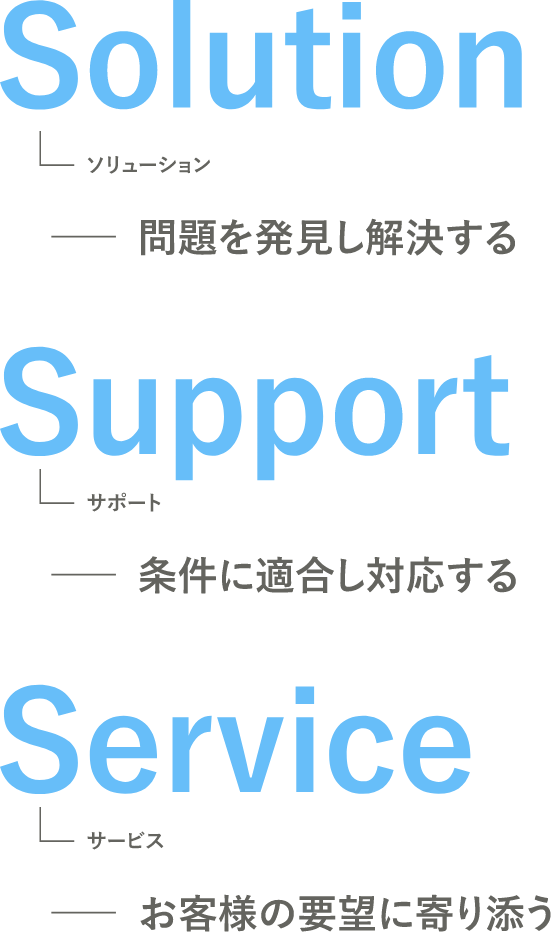
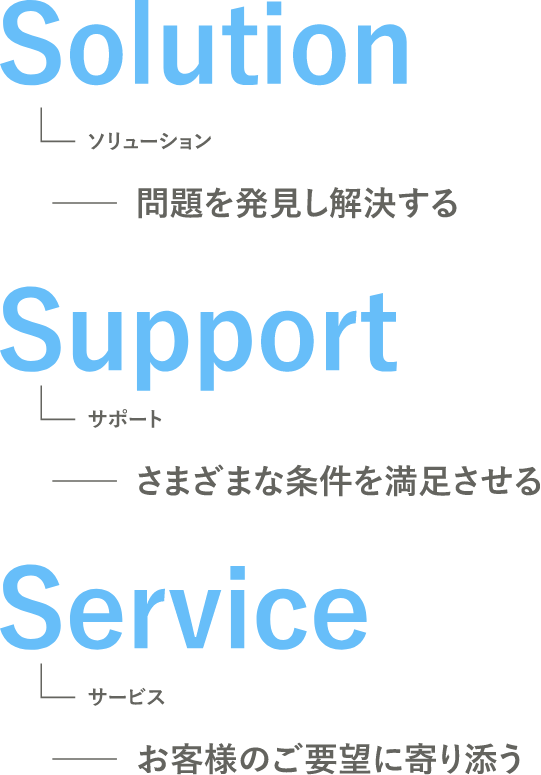
ご挨拶ページの修正

diff --git a/dist/company/index.html b/dist/company/index.html
@@ -281,8 +281,18 @@
 											<p class="p-company-index-text"> 今後は環境問題をはじめとするSDGsへの取り組みも推進し、<br> 建設業界に携わる一員として社会貢献への責任を果たせるように<br> 精進を重ねてまいります。これからのサンエス工業にご期待ください。 </p>
 										</div>
 										<div class="p-company-index-visual">
-											<img class="p-company-index-visual-image" src="../assets/images/company/company-portrait1.jpg" alt="肖像写真" width="250" height="300">
-											<p class="p-company-index-visual-signiture"><img class="p-company-index-visual-image" src="../assets/images/company/company-signiture1.png" alt="代表取締役社長 菊池丈之" width="215" height="25"></p>
+											<picture>
+												<source media="(max-width: 768px)" srcset="../assets/images/company/company-portrait1@2x.jpg">
+												<source media="(min-width: 769px)" srcset="../assets/images/company/company-portrait1.jpg">
+												<img class="p-company-index-visual-image" src="../assets/images/company/company-portrait1.jpg" alt="肖像写真" width="250" height="300">
+											</picture>
+											<p class="p-company-index-visual-signiture">
+												<picture>
+													<source media="(max-width: 768px)" srcset="../assets/images/company/company-signiture1@2x.png">
+													<source media="(min-width: 769px)" srcset="../assets/images/company/company-signiture1.png">
+													<img class="p-company-index-visual-image" src="../assets/images/company/company-signiture1.png" alt="代表取締役社長 菊池丈之" width="203" height="22">
+												</picture>
+											</p>
 										</div>
 									</div>
 								</section>
@@ -291,31 +301,31 @@
 										<span class="c-card-title-text"> 企業理念 <span class="c-card-title-en">Philosophy</span>
 										</span>
 									</h2>
-									<div class="p-company-index-content">
-										<div class="p-company-index-detail">
-											<p class="p-company-index-text"> サンエス工業では社名の「サンエス」に象徴されるポリシーとして、「三つのＳ」を掲げています。 </p>
-											<p class="p-company-index-text">
-												<strong>一つ目のＳはSolution（ソリューション）。</strong><br> お客様のニーズをくみ取り、予算や納期をクリアしたうえで良質な製品をお納めするために、自ら問題を発見し解決する。その姿勢を大切にしています。
-											</p>
-											<p class="p-company-index-text">
-												<strong>二つ目のＳはSupport（サポート）。</strong><br> 現場で要求されるさまざまな条件を満足する製品づくりのために、現地調査なども含めたきめ細やかなサポートができる体制を整えています。
-											</p>
-											<p class="p-company-index-text">
-												<strong>三つ目のＳはService（サービス）。</strong><br> 私たちはメーカーである前にまずお客様に寄り添うマインドを大切にし、既製品だけでなく特殊な製品もご要望に応じて対応できるような、高い技術力と機動力でお応えします。
-											</p>
+									<div class="p-company-index-3s">
+										<div class="p-company-index-content is-3s">
+											<div class="p-company-index-detail">
+												<p class="p-company-index-text"> サンエス工業では社名の「サンエス」に象徴されるポリシーとして、「三つのＳ」を掲げています。<br>
+													<strong>一つ目のＳはSolution（ソリューション）。</strong><br> お客様のニーズをくみ取り、予算や納期をクリアしたうえで良質な製品をお納めするために、自ら問題を発見し解決する。その姿勢を大切にしています。<br>
+													<strong>二つ目のＳはSupport（サポート）。</strong><br> 現場で要求されるさまざまな条件を満足する製品づくりのために、現地調査なども含めたきめ細やかなサポートができる体制を整えています。<br>
+													<strong>三つ目のＳはService（サービス）。</strong><br> 私たちはメーカーである前にまずお客様に寄り添うマインドを大切にし、既製品だけでなく特殊な製品もご要望に応じて対応できるような、高い技術力と機動力でお応えします。
+												</p>
+											</div>
 										</div>
-									</div>
-								</section>
-								<section class="p-company-index-3s">
-									<div class="p-company-index-3s-head">
-										<h2 class="p-company-index-3s-head-title">サンエス工業の<strong>三つのＳ</strong></h2>
-										<div class="p-company-index-3s-head-illust">
-											<img src="../assets/images/company/company-3s-illust.png" alt="Solution Support Service" width="343" height="334">
+										<div class="p-company-index-3s-wrapper">
+											<div class="p-company-index-3s-head">
+												<h2 class="p-company-index-3s-head-title">サンエス工業の<strong>三つのＳ</strong></h2>
+												<div class="p-company-index-3s-head-illust">
+													<img src="../assets/images/company/company-3s-illust.png" alt="Solution Support Service" width="343" height="334">
+												</div>
+											</div>
+											<div class="p-company-index-3s-content">
+												<picture>
+													<source media="(max-width: 768px)" srcset="../assets/images/company/company-3s_sp.png">
+													<source media="(min-width: 769px)" srcset="../assets/images/company/company-3s.png">
+													<img class="p-company-index-visual-image" src="../assets/images/company/company-3s.png" alt="サンエス工業の三つのＳ Solution 問題を発見し解決する Support 条件に適合し対応する Service お客様の要望に寄り添う" width="388" height="329">
+												</picture>
+											</div>
 										</div>
-									</div>
-									<div class="p-company-index-3s-content">
-										<img class="p-company-index-3s-image pc-view" src="../assets/images/company/company-3s.png" alt="サンエス工業の三つのＳ Solution 問題を発見し解決する Support 条件に適合し対応する Service お客様の要望に寄り添う" width="751" height="383">
-										<img class="p-company-index-3s-image sp-view" src="../assets/images/company/company-3s_sp.png" alt="サンエス工業の三つのＳ Solution 問題を発見し解決する Support 条件に適合し対応する Service お客様の要望に寄り添う" width="280" height="474">
 									</div>
 								</section>
 							</div>

diff --git a/src/scss/object/project/_p-company.scss b/src/scss/object/project/_p-company.scss
@@ -4,21 +4,23 @@
 	padding: 0 20px;
 	@include pc {
 		margin-top: -30px;
-		padding-bottom: 144px;
+		padding-bottom: 115px;
 	}
 
 	@include sp {
 		padding-top: 50px;
-		padding-bottom: 85px;
+		padding-bottom: 65px;
 	}
 }
 
 .p-company-index-section {
-	@include pc {
-		margin-bottom: 60px;
-	}
-	@include sp {
-		margin-bottom: 90px;
+	& + & {
+		@include pc {
+			margin-top: 60px;
+		}
+		@include sp {
+			margin-top: 90px;
+		}
 	}
 }
 
@@ -26,6 +28,11 @@
 	@include pc {
 		display: flex;
 		margin-top: 23px;
+
+		&.is-3s {
+			margin-right: 46.5px;
+			width: 334px;
+		}
 	}
 
 	@include sp {
@@ -73,7 +80,7 @@
 
 .p-company-index-visual-signiture {
 	@include sp {
-		min-width: 164px;
+		min-width: 157px;
 		width: 100%;
 
 		img {
@@ -84,28 +91,25 @@
 
 .p-company-index-3s {
 	@include pc {
-		margin-top: -72px;
-	}
-
-	@include sp {
-		margin-top: -40px;
+		display: flex;
 	}
 }
 
-.p-company-index-3s-head {
+.p-company-index-3s-wrapper {
 	@include pc {
-		display: flex;
-		padding: 0 0 0 50px;
+		flex: 1;
 	}
 }
 
 .p-company-index-3s-head-title {
 	color: $base-gray;
 	font-weight: normal;
+	text-align: center;
 
 	@include pc {
 		font-size: 26px;
-		padding: 100px 40px 0 0;
+		padding: 23px 0 0 25px;
+		margin-bottom: 32px;
 	}
 
 	@include sp {
@@ -127,13 +131,14 @@
 }
 
 .p-company-index-3s-content {
+	margin-top: 34px;
 	@include sp {
 		margin-top: 34px;
 
 		img {
 			max-width: 551px;
 			margin: 0 auto;
-			width: 100%;
+			width: 97%;
 		}
 	}
 }
